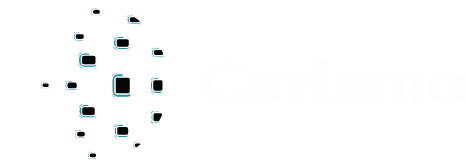
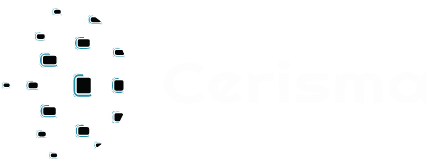
changes Done

diff --git a/src/component/logo/logo.tsx b/src/component/logo/logo.tsx
@@ -7,18 +7,25 @@ const logo = () => {
         <>
             <Box sx={{
                 width: {
-                    xs: 300,
-                    sm: 350,
-                    md: 400,
-                    lg: 450,
-                    xl: 500
+                    xs: 200,
+                    sm: 270,
+                    md: 280,
+                    lg: 330,
+                    xl: 350
                 },
                 height: {
-                    xs: 100,
-                    sm: 120,
-                    md: 140,
-                    lg: 160,
-                    xl: 170
+                    xs: 80,
+                    sm: 90,
+                    md: 100,
+                    lg: 110,
+                    xl: 120
+                },
+                marginLeft: {
+                    xs: '-20px',
+                    sm: '-20px',
+                    md: '-20px',
+                    lg: '-40px',
+                    xl: '-60px'
                 },
             }}>
                 <Image src={logoImg} alt="logo" />

diff --git a/src/app/page.tsx b/src/app/page.tsx
@@ -3,9 +3,6 @@ import { Typography, Box } from "@mui/joy";
 import CountdownTimer from "@/component/timer/timer";
 import Button from "@/component/button/button";
 import Logo from "@/component/logo/logo";
-import Image from 'next/image';
-import Background from "../assets/images/Background.png"
-
 
   const Home = () => {
 
@@ -32,15 +29,15 @@ import Background from "../assets/images/Background.png"
             textShadow: "0 3px 10px rgba(0, 0, 0, 0.78)",
             color: "white",
             margin: {
-              xs: '65px -23px 15px -22px',
+              xs: '55px -23px 15px -22px',
               sm: '55px -23px 15px -22px',
               md: '55px -23px 15px -22px',
               lg: '55px -23px 15px -22px',
-              xl: '30px -23px 10px -22px',
+              xl: '65px -23px 10px -22px',
               
             },
             lineHeight: "2",
-          }} className="text">Something great is on the way</Typography>
+          }}>Something great is on the way</Typography>
         </div>
 
         <div>
